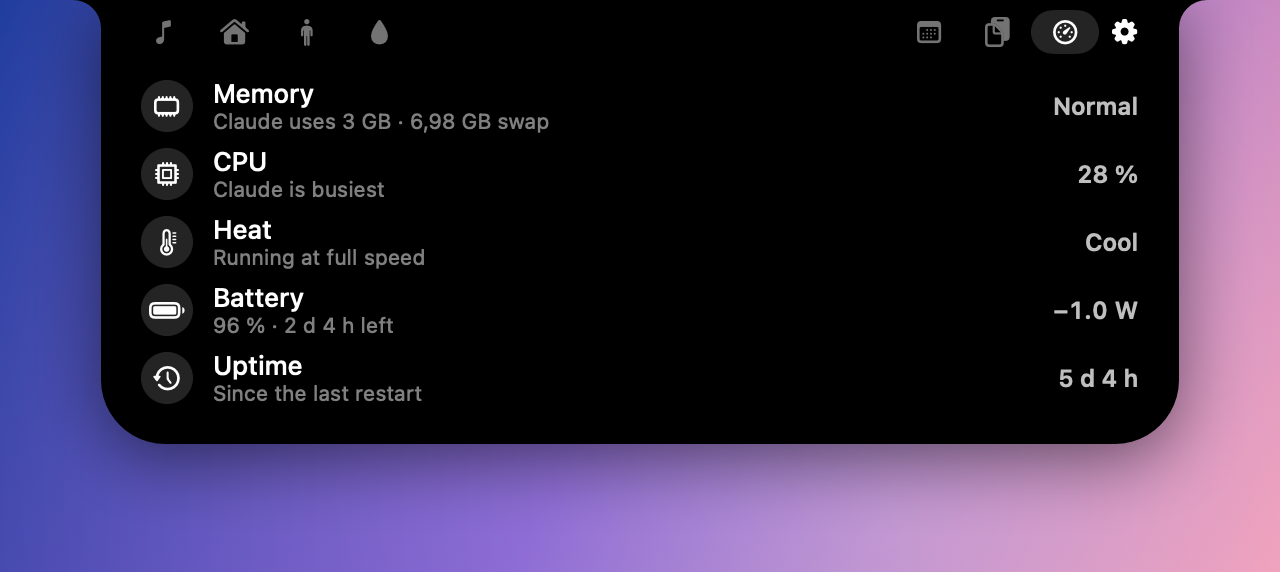
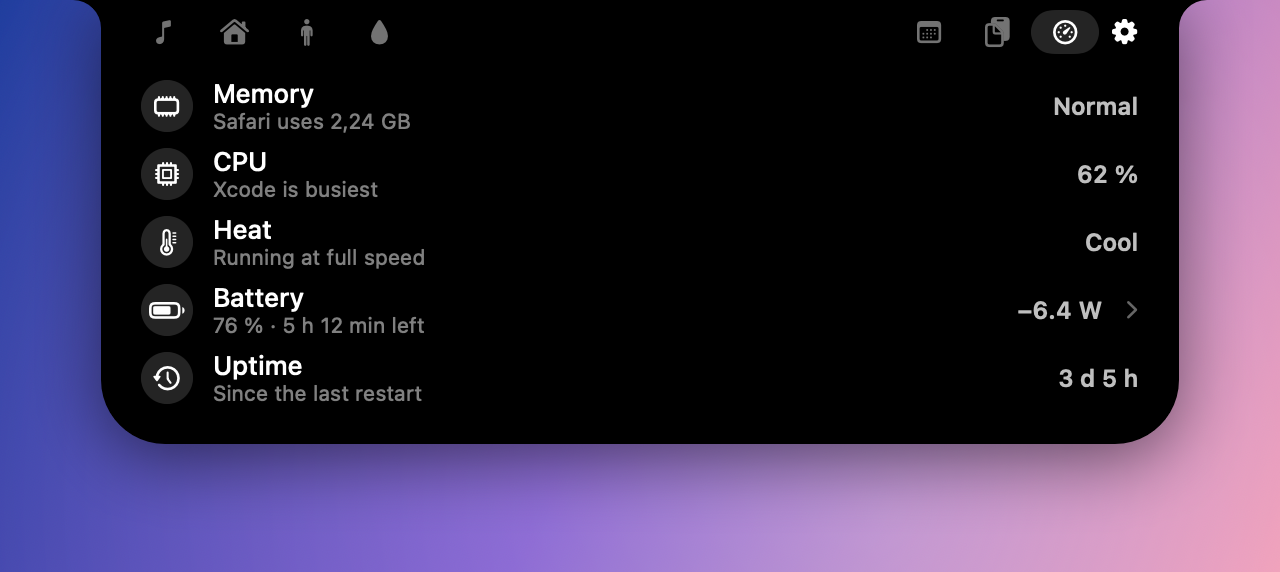
Update Dynamic Island screenshots for the merged main
Render every state again and add a picture of the calendar assistant.
The renderer now ignores the pointer, so a resting cursor can't open the
island or switch tabs mid-run, and it skips IOBluetooth, which aborted the
binary without an Info.plist when the output was Bluetooth. Audio devices
and the System tab show stand-ins instead of this Mac's device names,
processes and battery. The assistant's field, an AppKit view, draws as text.

diff --git a/DynamicIsland/Sources/DynamicIsland/Views/CalendarViews.swift b/DynamicIsland/Sources/DynamicIsland/Views/CalendarViews.swift
@@ -191,6 +191,7 @@ private struct EventRow: View {
 /// One line to ask the calendar something or change it, with the assistant's answer below.
 private struct AssistantField: View {
     @Environment(IslandModel.self) private var model
+    @Environment(\.isSnapshot) private var isSnapshot
     @State private var text = ""
     @FocusState private var isFocused: Bool
 
@@ -201,19 +202,26 @@ private struct AssistantField: View {
                 Image(systemName: "sparkles")
                     .font(.system(size: 12, weight: .semibold))
                     .foregroundStyle(.white.opacity(0.6))
-                TextField("", text: $text, prompt: Text(assistant.hasAPIKey ? "Ask or tell your calendar…"
-                                                             : "Add a \(assistant.provider.name) API key in Settings to ask your calendar")
-                    .foregroundColor(.white.opacity(0.4)))
-                    .textFieldStyle(.plain)
-                    .font(.system(size: 13))
-                    .foregroundStyle(.white)
-                    .focused($isFocused)
-                    .disabled(!assistant.hasAPIKey)
-                    .onSubmit(submit)
-                    .onExitCommand { isFocused = false }
+                if isSnapshot {
+                    Text("Ask or tell your calendar…")
+                        .font(.system(size: 13))
+                        .foregroundStyle(.white.opacity(0.4))
+                        .frame(maxWidth: .infinity, alignment: .leading)
+                } else {
+                    TextField("", text: $text, prompt: Text(assistant.hasAPIKey ? "Ask or tell your calendar…"
+                                                                 : "Add a \(assistant.provider.name) API key in Settings to ask your calendar")
+                        .foregroundColor(.white.opacity(0.4)))
+                        .textFieldStyle(.plain)
+                        .font(.system(size: 13))
+                        .foregroundStyle(.white)
+                        .focused($isFocused)
+                        .disabled(!assistant.hasAPIKey)
+                        .onSubmit(submit)
+                        .onExitCommand { isFocused = false }
+                }
                 if assistant.isWorking {
                     ProgressView().controlSize(.small).tint(.white)
-                } else if !assistant.hasAPIKey {
+                } else if !assistant.hasAPIKey && !isSnapshot {
                     Button("Settings") { model.openSettings(.calendar) }
                         .buttonStyle(CapsuleButtonStyle())
                 } else if !text.isEmpty {

diff --git a/DynamicIsland/Sources/DynamicIsland/Debug/SnapshotRenderer.swift b/DynamicIsland/Sources/DynamicIsland/Debug/SnapshotRenderer.swift
@@ -5,10 +5,15 @@ import SwiftUI
 /// Debug aid: `DynamicIsland --snapshots <dir>` renders every island state to PNG and quits.
 @MainActor
 enum SnapshotRenderer {
+    /// While rendering, the real window ignores the pointer, so where it happens to rest can't change a picture.
+    nonisolated static let isActive = CommandLine.arguments.contains("--snapshots")
+
     static func run(model: IslandModel, directory: URL) {
         try? FileManager.default.createDirectory(at: directory, withIntermediateDirectories: true)
         Task {
             try? await Task.sleep(for: .seconds(3))
+            model.audio.showPreview()  // Stand-ins, so a screenshot never shows the name of a real device.
+            model.airPods.showPreview()
             model.media.showPreview(title: "Golden Hour Over the Harbor", artist: "Lumen Avenue",
                                     duration: 213, elapsed: 173, artwork: previewArtwork())
             render("1-closed", model, directory)
@@ -25,7 +30,6 @@ enum SnapshotRenderer {
             render("7-open-media", model, directory)
             renderHero("0-hero", model, directory)
             model.setChoosingOutput(true)
-            model.airPods.showPreview()
             render("8-open-output", model, directory)
             model.setChoosingOutput(false)
             model.select(.home)
@@ -78,6 +82,10 @@ enum SnapshotRenderer {
             model.select(.calendar)
             model.calendar.showPreview(events)  // Opening the tab reloads the real calendar.
             render("16-open-calendar", model, directory)
+            model.assistant.showPreview(question: "Lägg till möte med Ruben imorgon kl 17",
+                                        reply: "Added “Möte med Ruben” tomorrow, 17:00–18:00.")
+            render("16b-calendar-assistant", model, directory)
+            model.assistant.clear()
             model.select(.media)
             model.close()
             model.water.showPreview(glasses: 3)
@@ -101,9 +109,8 @@ enum SnapshotRenderer {
             model.open()
             model.select(.clipboard)
             render("20-open-clipboard", model, directory)
+            model.system.showPreview()
             model.select(.system)
-            try? await Task.sleep(for: .seconds(2.5))  // CPU needs two samples.
-            model.open()
             render("21-open-system", model, directory)
             model.select(.media)
             model.close()

diff --git a/DynamicIsland/Sources/DynamicIsland/Services/SystemService.swift b/DynamicIsland/Sources/DynamicIsland/Services/SystemService.swift
@@ -53,7 +53,7 @@ final class SystemService {
     static let maxEnergyRows = 5
     private(set) var thermalState: ProcessInfo.ThermalState = .nominal
     private(set) var power: Power?
-    let bootDate: Date?
+    private(set) var bootDate: Date?
 
     static let busyThreshold = 80.0
     private static let interval: TimeInterval = 2
@@ -69,7 +69,25 @@ final class SystemService {
         thermalState = ProcessInfo.processInfo.thermalState
     }
 
+    #if DEBUG
+    /// Stand-in numbers for `--snapshots`, so a screenshot never shows what really runs on this Mac.
+    func showPreview() {
+        stop()
+        memoryPressure = .normal
+        swapUsed = 0
+        topMemory = Usage(name: "Safari", value: 2_400_000_000, appURL: nil)
+        topCPU = Usage(name: "Xcode", value: 62, appURL: nil)
+        thermalState = .nominal
+        power = Power(percent: 76, isOnAdapter: false, isCharging: false, watts: -6.4,
+                      minutesRemaining: 312, adapterWatts: nil)
+        bootDate = Date().addingTimeInterval(-3 * 86_400 - 5 * 3_600)
+    }
+    #endif
+
     func start() {
+        #if DEBUG
+        if SnapshotRenderer.isActive { return }
+        #endif
         guard timer == nil else { return }
         refresh()
         timer = Timer.scheduledTimer(withTimeInterval: Self.interval, repeats: true) { [weak self] _ in

diff --git a/DynamicIsland/Sources/DynamicIsland/Services/AudioService.swift b/DynamicIsland/Sources/DynamicIsland/Services/AudioService.swift
@@ -107,6 +107,22 @@ final class AudioService {
 
     func toggleMute() { setMuted(!isMuted) }
 
+    #if DEBUG
+    /// Stand-in outputs for `--snapshots`.
+    func showPreview() {
+        devices = [
+            AudioOutputDevice(id: 1, name: "MacBook Air Speakers", uid: "BuiltInSpeakerDevice",
+                              transportType: kAudioDeviceTransportTypeBuiltIn),
+            AudioOutputDevice(id: 2, name: "AirPods Pro", uid: "AA-BB-CC-DD-EE-FF:output",
+                              transportType: kAudioDeviceTransportTypeBluetooth),
+        ]
+        currentDeviceID = 2
+        volume = 0.45
+        isMuted = false
+        canSetVolume = true
+    }
+    #endif
+
     // MARK: Devices
 
     func selectDevice(_ device: AudioOutputDevice) {

diff --git a/DynamicIsland/Sources/DynamicIsland/Services/AirPodsService.swift b/DynamicIsland/Sources/DynamicIsland/Services/AirPodsService.swift
@@ -28,6 +28,10 @@ final class AirPodsService {
     }
 
     private func read(_ output: AudioOutputDevice?) {
+        #if DEBUG
+        // The snapshot binary has no Info.plist, so touching IOBluetooth would abort it.
+        if SnapshotRenderer.isActive { return }
+        #endif
         // Asking IOBluetooth before Bluetooth access is settled shows the prompt, so only
         // do it for a Bluetooth output, which is when the user is looking at the outputs.
         guard let address = output?.bluetoothAddress,

diff --git a/DynamicIsland/Sources/DynamicIsland/Services/CalendarAssistant.swift b/DynamicIsland/Sources/DynamicIsland/Services/CalendarAssistant.swift
@@ -51,6 +51,14 @@ final class CalendarAssistant {
 
     static let claudeModel = "claude-opus-5-5"
 
+    #if DEBUG
+    /// A stand-in exchange for `--snapshots`.
+    func showPreview(question: String, reply: String) {
+        self.question = question
+        self.reply = reply
+    }
+    #endif
+
     init(calendar: CalendarService) {
         self.calendar = calendar
         geminiKey = Self.loadKey(file: "gemini-api-key")

diff --git a/DynamicIsland/Sources/DynamicIsland/Views/OpenIslandView.swift b/DynamicIsland/Sources/DynamicIsland/Views/OpenIslandView.swift
@@ -101,6 +101,9 @@ struct OpenIslandView: View {
         .onHover { hovering in
             hoverSelect?.cancel()
             guard hovering else { return }
+            #if DEBUG
+            if SnapshotRenderer.isActive { return }
+            #endif
             hoverSelect = Task { @MainActor in
                 try? await Task.sleep(for: .milliseconds(140))
                 if !Task.isCancelled { model.select(tab) }

diff --git a/DynamicIsland/Sources/DynamicIsland/Island/IslandModel.swift b/DynamicIsland/Sources/DynamicIsland/Island/IslandModel.swift
@@ -318,6 +318,9 @@ final class IslandModel {
     // MARK: Interaction
 
     func setHovering(_ hovering: Bool) {
+        #if DEBUG
+        if SnapshotRenderer.isActive { return }
+        #endif
         guard hovering != isHovering else { return }
         withAnimation(.spring(response: 0.32, dampingFraction: 0.66)) { isHovering = hovering }
 

diff --git a/DynamicIsland/README.md b/DynamicIsland/README.md
@@ -48,7 +48,7 @@
 | <img src="Screenshots/calendar.png" alt="Calendar tab"><br>**Calendar** tab | <img src="Screenshots/calendar-reminder.png" alt="Calendar reminder"><br>**Calendar** reminder |
 | <img src="Screenshots/water.png" alt="Water tab"><br>**Water** tab | <img src="Screenshots/water-reminder.png" alt="Water reminder"><br>**Water** reminder |
 | <img src="Screenshots/clipboard.png" alt="Clipboard history and file shelf"><br>**Clipboard** and file shelf | <img src="Screenshots/system.png" alt="System tab"><br>**System** at a glance |
-| <img src="Screenshots/screenshot.png" alt="Screenshot shelf"><br>**Screenshot** shelf | |
+| <img src="Screenshots/screenshot.png" alt="Screenshot shelf"><br>**Screenshot** shelf | <img src="Screenshots/calendar-assistant.png" alt="Calendar assistant answering under its field"><br>**Ask your calendar** in plain words |
 
 ## Requirements
 
